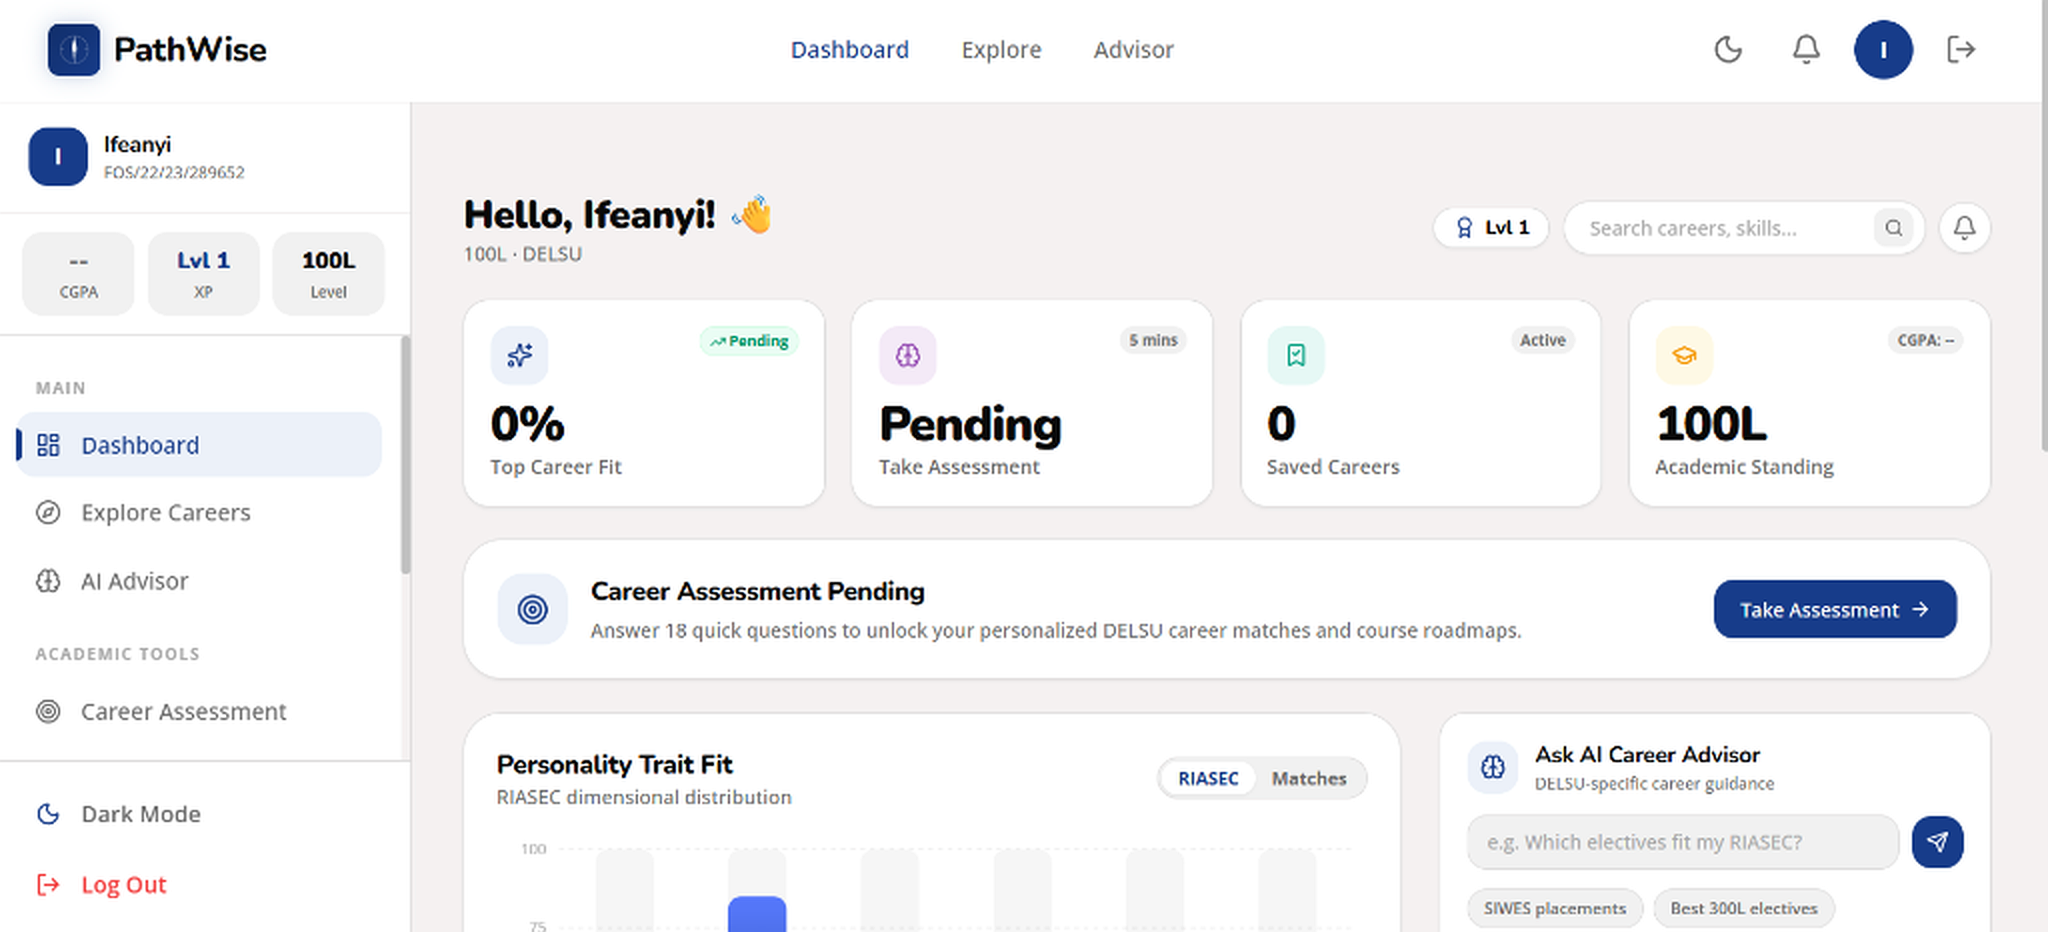
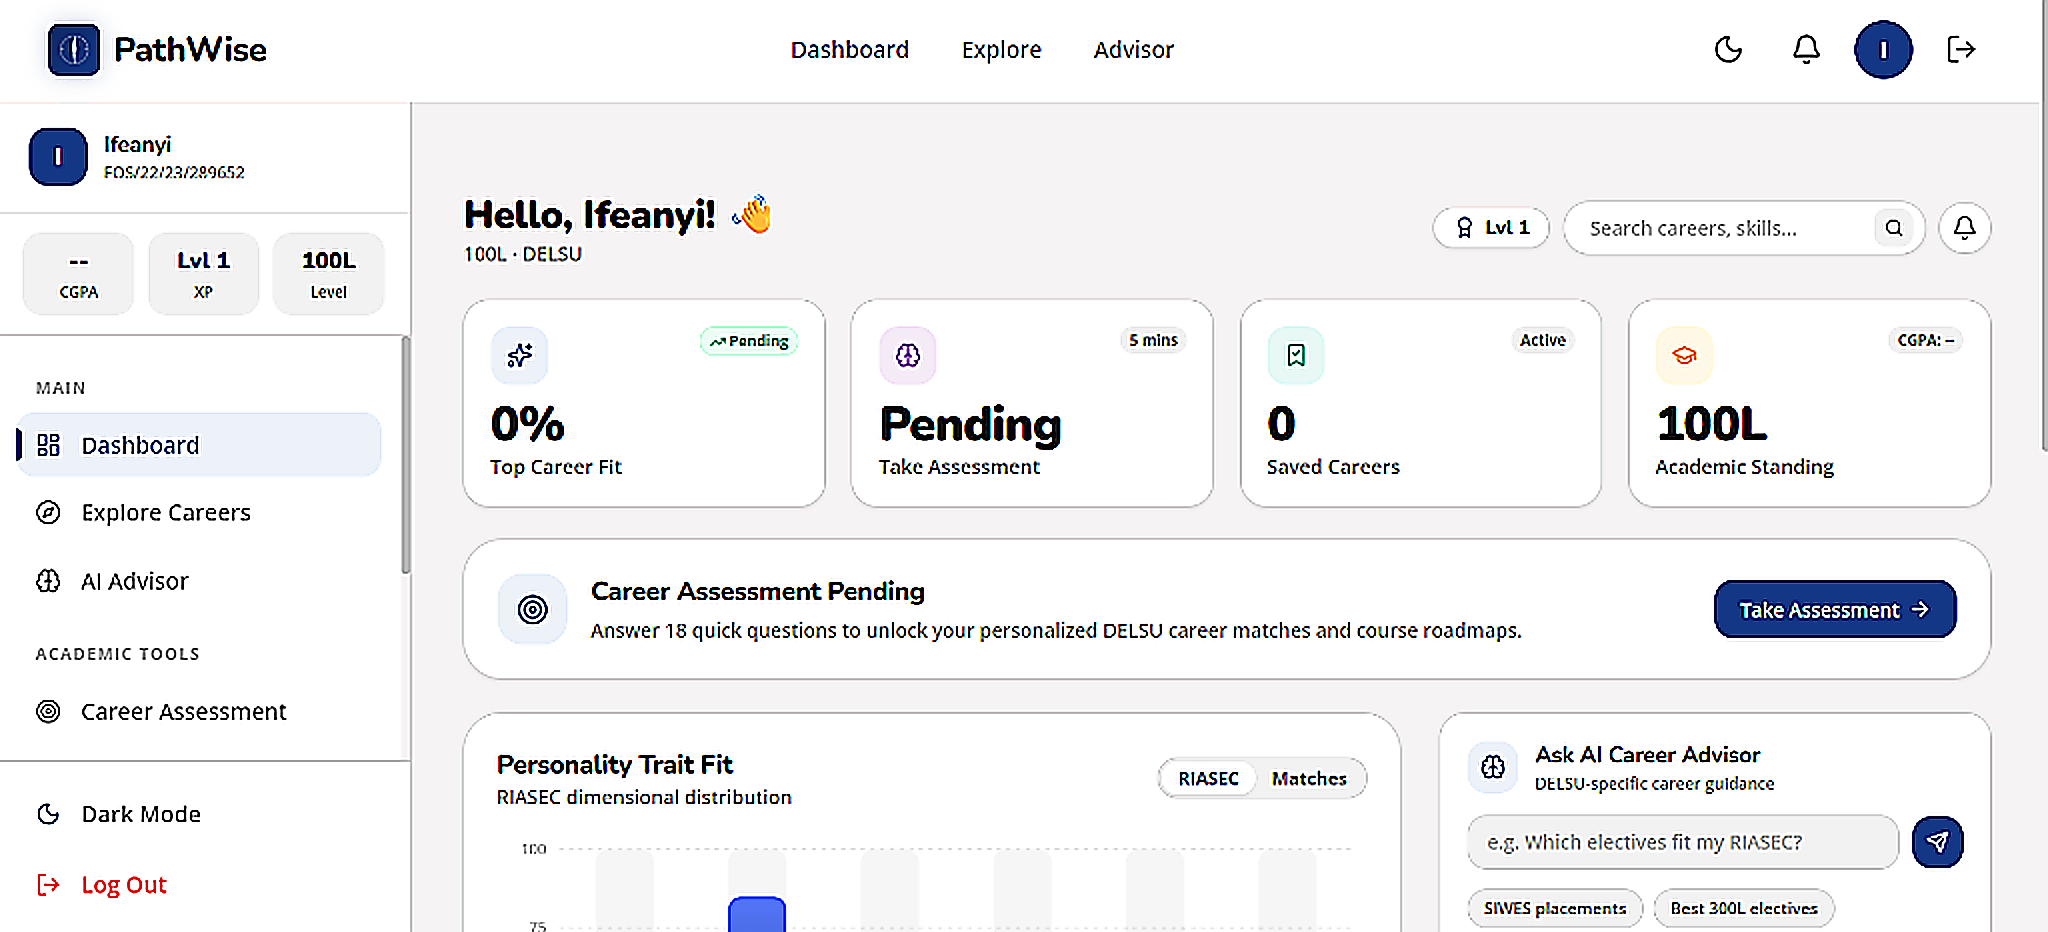
perf(landing): apply multi-stage UI unsharp masking and fix Chromium 3D perspective blur

diff --git a/client/src/pages/LandingPage.jsx b/client/src/pages/LandingPage.jsx
@@ -437,31 +437,33 @@ const LandingPage = () => {
           50% { opacity: 0; }
         }
 
-        /* 3D Perspective Floating Dashboard */
+        /* 3D Perspective Floating Dashboard (Crisp High-Fidelity Rendering) */
         .credix-perspective-scene {
-          perspective: 1400px;
-          perspective-origin: 50% 0%;
+          perspective: 2200px;
+          perspective-origin: 50% 15%;
         }
 
         .credix-floating-frame {
           transform-style: preserve-3d;
-          transform: rotateX(10deg) translateY(0px) scale(0.98);
+          transform: rotateX(3.5deg) translateY(0px);
           animation: credixLevitate 6s ease-in-out infinite alternate;
-          transition: transform 0.6s cubic-bezier(0.16, 1, 0.3, 1), box-shadow 0.6s ease;
+          transition: transform 0.4s cubic-bezier(0.16, 1, 0.3, 1), box-shadow 0.4s ease;
+          backface-visibility: hidden;
+          -webkit-backface-visibility: hidden;
         }
 
         .credix-floating-frame:hover {
-          transform: rotateX(2deg) translateY(-8px) scale(1.005);
+          transform: rotateX(0deg) translateY(-8px) scale(1.008);
           box-shadow: 0 45px 100px -15px rgba(27, 55, 123, 0.28), 0 20px 45px -10px rgba(0, 0, 0, 0.14);
         }
 
         @keyframes credixLevitate {
           0% {
-            transform: rotateX(11deg) translateY(0px) scale(0.98);
+            transform: rotateX(3.5deg) translateY(0px);
             box-shadow: 0 30px 75px -15px rgba(27, 55, 123, 0.22), 0 15px 35px -10px rgba(0, 0, 0, 0.1);
           }
           100% {
-            transform: rotateX(6deg) translateY(-16px) scale(0.995);
+            transform: rotateX(1.5deg) translateY(-14px);
             box-shadow: 0 45px 95px -15px rgba(27, 55, 123, 0.28), 0 20px 45px -10px rgba(0, 0, 0, 0.14);
           }
         }
@@ -757,13 +759,9 @@ const LandingPage = () => {
                   {/* Enhanced 2x Crisp PathWise Dashboard Image */}
                   <div className="relative bg-[#F8FAFC] overflow-hidden">
                     <img
-                      src="/dashboard-preview.png?v=2"
+                      src="/dashboard-preview.png?v=3"
                       alt="PathWise Student Dashboard Interface"
                       className="w-full h-auto object-cover object-top block select-none pointer-events-none"
-                      style={{
-                        imageRendering: '-webkit-optimize-contrast',
-                        filter: 'contrast(1.02) brightness(1.01)'
-                      }}
                     />
                   </div>
                 </div>
